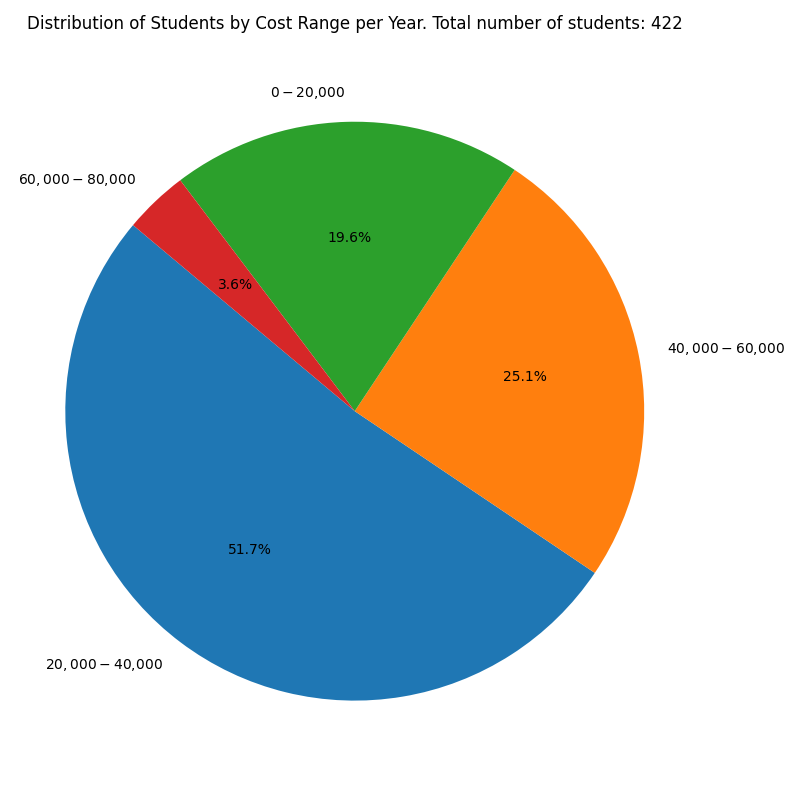
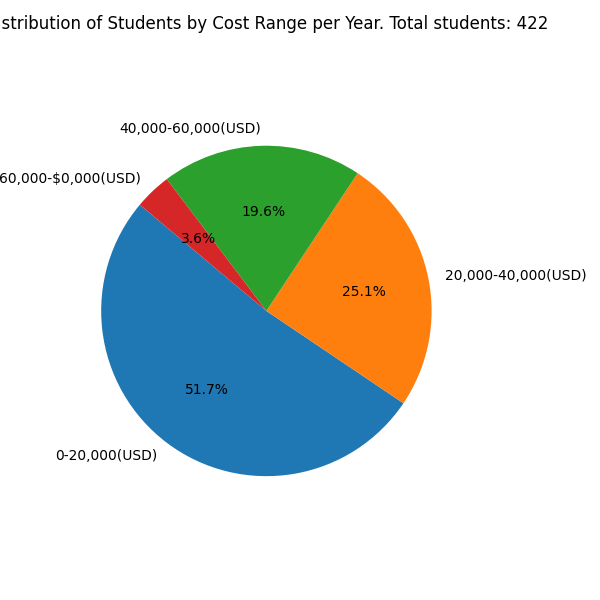
fix label

diff --git a/lib.py b/lib.py
@@ -54,7 +54,7 @@ def create_graph2(df):
     cost_range_counts = df['Cost Range'].value_counts()
     plt.figure(figsize=(6, 6))
     plt.pie(cost_range_counts, 
-            labels=cost_range_counts.index, 
+            labels=cost_labels, 
             autopct='%1.1f%%', 
             startangle=140
             )
